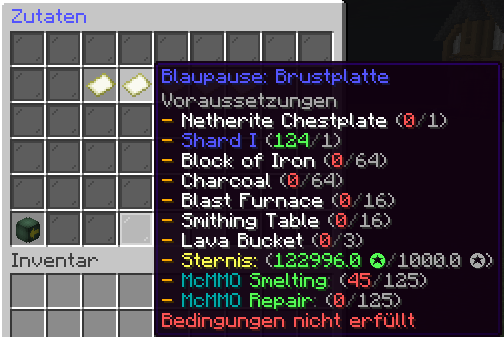
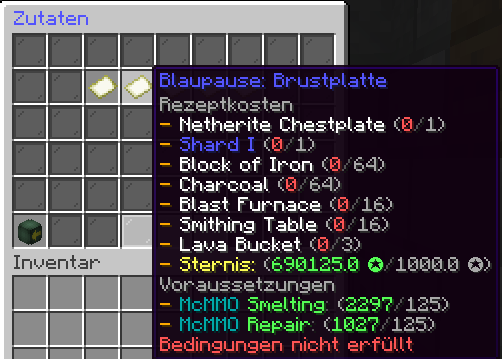
Update 2 files
- /images/customcrafting_rezept_beispiel.png
- /besondere-funktionen/customcrafting.md

diff --git a/besondere-funktionen/customcrafting.md b/besondere-funktionen/customcrafting.md
@@ -42,6 +42,7 @@ Er ist als Drop bei [Bosskämpfen](/geld-level/bosskampf.md) erhältlich und ist
 
 ---
 
+<!--
 ## Rezepte
 Im Folgenden findest du eine Auflistung aller CustomCrafting Rezepte.
 
@@ -461,6 +462,7 @@ Rezepte, die sonst nicht herstellbare Vanilla-Items erzeugen.
 ==-
 
 ---
+-->
 
 ## Neues CustomCrafting
 
@@ -538,13 +540,8 @@ Innerhalb einer Unterkategorie werden die jeweiligen Rezepte angezeigt:
 ---
 
 #### Rezeptkosten und Voraussetzungen
-
-!!!warning
-Die optische Trennung zwischen **Kosten** und **Voraussetzungen** ist derzeit noch in Arbeit und wird mit einem späteren Update verbessert.
-!!!
-
 - **Rezeptkosten** sind die Materialien, das Geld oder die Vanilla-Exp, die für ein Rezept benötigt werden. Diese werden beim Craften **verbraucht**.  
-- **Rezeptvoraussetzungen** sind Bedingungen, die erfüllt sein müssen, um ein Rezept nutzen zu können. Diese bleiben dir auch nach dem Craften **erhalten**.  
+- **Voraussetzungen** sind Bedingungen, die erfüllt sein müssen, um ein Rezept nutzen zu können. Diese bleiben dir auch nach dem Craften **erhalten**.  
 
 Mögliche Voraussetzungen:  
 - McMMO-Level  
